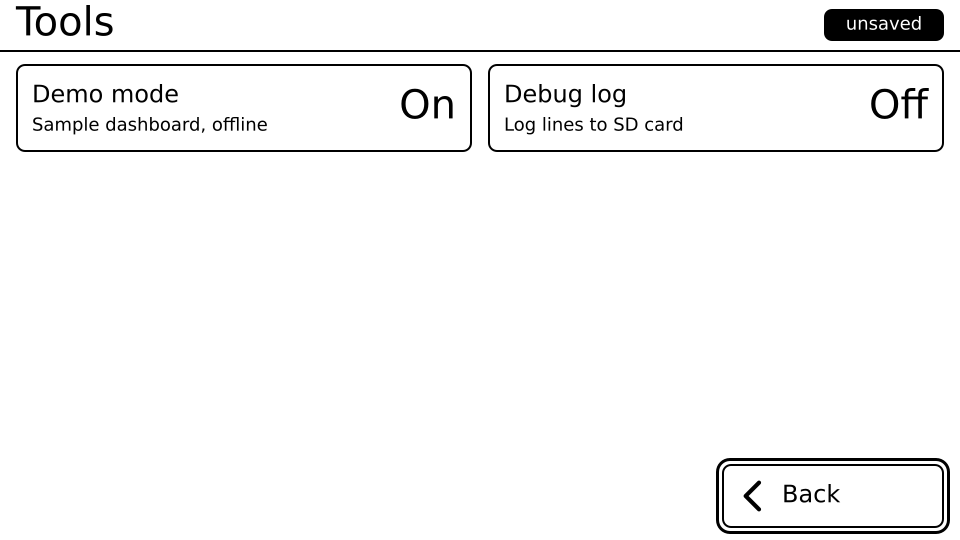
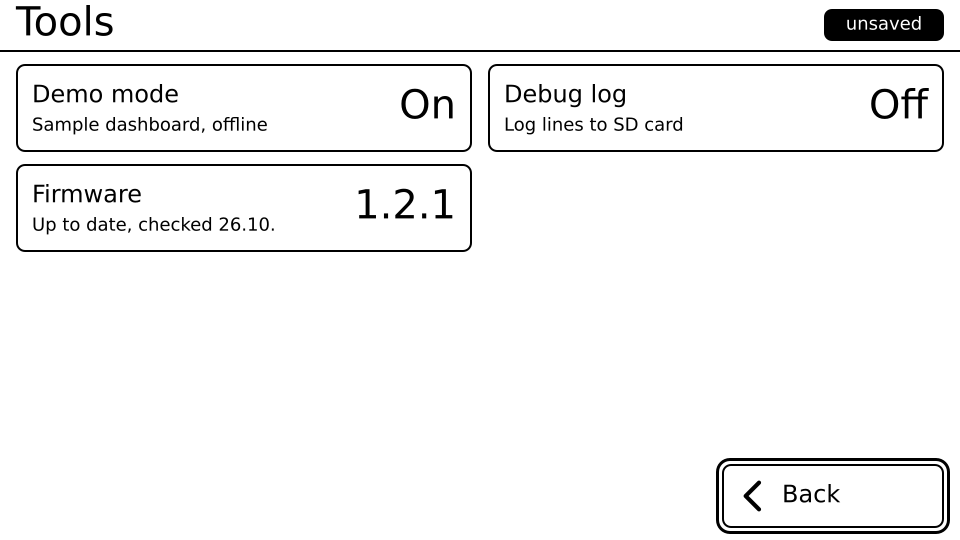
task 087: UI spec for firmware update in Settings

Changed region(s): [[0.0, 0.2963, 0.5, 0.4741]]

diff --git a/docs/ui/settings.md b/docs/ui/settings.md
@@ -4,7 +4,7 @@ System screen (not config-driven). Opened by a **long push of the rocker at TAB
 level** (layout.md 7.2) or by a **tap on the battery cluster** in the status bar
 (hit kind `settings`, layout.md section 6). Shown in the current orientation; no
 tab bar, no status bar. Values from `docs/ui/STYLE.md` (revision 3: touch targets
-64, gaps 12, every text and icon placed by its centre line `cy`). Mockups (revision 7, task 047): overview `settings-portrait.svg` / `settings-landscape.svg`; category pages `settings-display-*.svg`, `settings-sleep-*.svg`, `settings-network-*.svg`, `settings-tools-*.svg` (each `-portrait` / `-landscape`). The old `tools-*.svg` are removed. Rect = (x, y, w, h); screen
+64, gaps 12, every text and icon placed by its centre line `cy`). Mockups (revision 7, task 047): overview `settings-portrait.svg` / `settings-landscape.svg`; category pages `settings-display-*.svg`, `settings-sleep-*.svg`, `settings-network-*.svg`, `settings-tools-*.svg` (each `-portrait` / `-landscape`; plus `settings-tools-states.svg`, task 087). The old `tools-*.svg` are removed. Rect = (x, y, w, h); screen
 coordinates unless it says "row-relative".
 
 ## 1. Purpose and data sources
@@ -78,7 +78,7 @@ Settings is a two-level system: the **overview** (main page) lists four **catego
 | Display | Orientation |
 | Sleep & wake | Sleep mode, Updates while asleep, Keep awake, Idle timeout, Learn battery limits; battery use bar (8.2, revision 10, task 085) |
 | Network | Wi-Fi (`Auto` / profile names from secrets.yaml), HA connection (`Auto` / `Internal` / `External`) |
-| Tools | Demo mode, Debug log |
+| Tools | Demo mode, Debug log, Firmware (update row, 8.6; not part of the edit buffer) |
 
 Rule changes: rule 1a now reads "one edit buffer for all pages"; the `unsaved` chip (header, same place) shows on the overview and on every category page; moving between levels (category row, Back, LONG_PUSH on a category page) saves and applies nothing. Rules 2 to 7 are unchanged, with these additions: **Wi-Fi / HA connection** changes apply on leaving Settings (the network session restarts once, after the tab screen is drawn; Demo mode On starts none). The idle auto-leave (60 s) fires from any page and leaves Settings entirely, saving the buffer. **Value cycling** for Wi-Fi: `Auto` -> profile 1 -> ... -> profile N -> `Auto` (list order of secrets.yaml); HA connection `Auto` -> `Internal` -> `External` -> `Auto`.
 
@@ -97,7 +97,7 @@ Shared geometry (unchanged from revision 6): margins 16, gaps 12, header 54 (por
 | Refresh now | (16, 880, 248, 64) | 912 | 3.4 |
 | Back | (276, 880, 248, 64) | 912 | 3.4 |
 
-Category row (row-relative, 508 x 96): label F24 INK left at x = 16, cy = 34; **one-line summary** F18 INK left at x = 16, cy = 66; chevron_right icon (M, 40 x 40) at (W - 52, 28), cy = 48. Summaries (from the edit buffer, so they follow unsaved changes; fit rule F18 then `...`): Display `Portrait` / `Landscape`; Sleep & wake `<Sleep mode>, updates <X>` plus `, USB awake` / `, always awake` when Keep awake is On USB / Always, e.g. `Power off, updates 3 h`, `Deep sleep, updates off`, `Touch & rocker, updates 30 min, always awake` (X = `off` / `30 min` / `1 h` / `3 h` / `6 h` / `12 h`; fit rule: drop the word `updates `, then `...`; revision 10, the idle timeout is no longer in the summary); Network `Wi-Fi <value>, HA <value>` e.g. `Wi-Fi Auto, HA Auto` or `Wi-Fi Hotspot, HA Internal`; Tools `Demo Off, Log Off`. Vertical sums: header 56 +12 = 68; 4 x 96 + 3 x 12 = 420 -> 488; +16 = 504; info 304 -> 808; footer 880 (72 px of free space between).
+Category row (row-relative, 508 x 96): label F24 INK left at x = 16, cy = 34; **one-line summary** F18 INK left at x = 16, cy = 66; chevron_right icon (M, 40 x 40) at (W - 52, 28), cy = 48. Summaries (from the edit buffer, so they follow unsaved changes; fit rule F18 then `...`): Display `Portrait` / `Landscape`; Sleep & wake `<Sleep mode>, updates <X>` plus `, USB awake` / `, always awake` when Keep awake is On USB / Always, e.g. `Power off, updates 3 h`, `Deep sleep, updates off`, `Touch & rocker, updates 30 min, always awake` (X = `off` / `30 min` / `1 h` / `3 h` / `6 h` / `12 h`; fit rule: drop the word `updates `, then `...`; revision 10, the idle timeout is no longer in the summary); Network `Wi-Fi <value>, HA <value>` e.g. `Wi-Fi Auto, HA Auto` or `Wi-Fi Hotspot, HA Internal`; Tools `Demo Off, Log Off`, or `Update available, Demo Off, Log Off` while a newer release is known (task 087; same fit rule, then `...`). Vertical sums: header 56 +12 = 68; 4 x 96 + 3 x 12 = 420 -> 488; +16 = 504; info 304 -> 808; footer 880 (72 px of free space between).
 
 Info rows (3.3 table) change only in wording: HA row `internal, ok 14:05` / `external, ok 14:05` (the link in use; was local / remote); Wi-Fi row shows the SSID of the connected profile.
 
@@ -242,6 +242,8 @@ Effect: Wi-Fi / HA connection are applied on leaving Settings (rule 3 addition);
 ### 8.4 Tools (`settings-tools-*.svg`)
 Hint rows 88 high: Demo mode, Debug log (portrait (16, 68) and (16, 168), landscape (16, 64) and (488, 64)); Debug log note slot (portrait (16, 268, 508, 64), landscape (488, 164, 456, 64)): `Writes /debug.log (max 1 MB).` / `Uses more battery.`, or with no SD card `No SD card: nothing is logged.` / `Insert a card to log.` Hints: `Sample dashboard, offline`, `Log lines to SD card`.
 
+Task 087 adds the **Firmware row** (8.6) as the third row: portrait (16, 268, 508, 88), the Debug log note slot moves to (16, 368, 508, 64); landscape (16, 164, 456, 88) under Demo mode (note slot unchanged). Focus order: Demo mode, Debug log, Firmware (only when actionable), Back. Mockups: portrait shows update available, landscape up to date; all states in `settings-tools-states.svg`.
+
 ### 8.5 Interactions and rocker (all category pages)
 | Target | Action | Redraw |
 |--------|--------|--------|
@@ -284,3 +286,27 @@ No on-screen countdown (partial refresh while holding would ghost and cost batte
 - OPEN-S9: closed (task 085 notes): the estimate is replaced by the 1..10 Battery use bar; architect to confirm lib/power can give a level 1..10.
 - OPEN-S10: On USB falling back to Off when the mode no longer offers it (8.2 row 3) is a proposal; alternative is to keep the stored value and treat it as Off.
 - OPEN-S11: forced-Off Updates (Power off without a working RTC power-on) shows as a dotted row plus note; confirm 084 can report "RTC power-on unsupported" at settings time.
+
+
+## 8.6 Firmware update (revision 11, task 087; `settings-tools-states.svg`, ids w-1..w-N as in the sheet)
+Settings only: nothing on tab screens, no popup. Data: NVS found version / last-check time (lib ota_logic), `FW_VERSION`, battery %, USB (usb_rx), Wi-Fi state, demo flag. No HA entity.
+
+**Firmware row** (hint-row geometry 3.1, 88 high, not edited, never touches the edit buffer or the `unsaved` chip). Label `Firmware` F24 (x 16, cy 32; OFF grey when refused); value = installed version F40 INK right edge W - 16 cy 44 (F24 if a long version would meet the hint); hint F18 INK x 16 cy 62 (x 48 after an alert icon S 24 at (16, 50)); hint at most about 30 characters. Chip `NEW` row-relative (144, 16, 72, 32), F18 PAPER on INK, radius 8, shown whenever a newer release is known. Row looks (shape carries the state):
+| State | Border | Hint | Tap / focus |
+|-------|--------|------|-------------|
+| Up to date / never checked | none, 1 px OFF top hairline (info look) | `Up to date, checked 26.10.` (same day `14:05`) / `Not checked yet` | ignored, no focus stop |
+| Update available | 2 px INK solid, chip | `Update to 1.3.0 available` | opens confirm |
+| Refused | 2 px dotted OFF (STYLE 8 unavailable), chip, label OFF | first reason that applies: `1.3.0: leave demo mode first`, `1.3.0: Wi-Fi not connected`, `1.3.0 needs USB or 50% battery` | ignored, no focus stop (the hint is the explanation) |
+| Failed | as Update available + alert icon | `Download failed, try again` / `File damaged, not installed` (SHA-256); old firmware untouched | opens confirm (retry) |
+| Updated (first Settings visit after the reboot only; cleared when Settings is left) | info look | `Updated from 1.2.1` (value = new version) | ignored |
+| Rolled back (after 3 unhealthy boots) | info look + alert icon | `1.3.0 failed, rolled back` | ignored; that version is not offered again (OPEN-S12) |
+Overview: Tools row summary gains `Update available, ` first (3.0); no other overview change (the Firmware info row keeps `v1.2.1`).
+
+**Confirm step** (full page, replaces the Tools page; header `Update`, `unsaved` chip only if dirty; STYLE 10b). Portrait (origin 0,0): `Install 1.3.0?` F40 (16, cy 100); info rows (3.3 pattern, 48 high, hairline OFF, label F18 DIM x 16, value F24 INK x 174) at y 144 / 192 / 240: `Installed 1.2.1`, `New 1.3.0`, `Download 1.6 MB` (size from the manifest); lines F18 INK at x 16, cy 330 / 354 / 378: `Takes about a minute, then the` / `device restarts. Your settings and` / `config are kept.`; alert note 3.2 at (16, 410, 508, 64): `Keep it on USB or charged.` / `Do not switch it off.`; buttons 508 x 64, border 2 INK, label F24 x 16, key hint F18 right x W - 16, cy 32: `Yes, install` `UP` at (16, 696), `No, cancel` `DOWN` (16, 772), `Skip` `PUSH` (16, 848). Landscape: title cy 90, info rows (16, 124 / 168 / 212, 456, 44), lines cy 282 / 306 / 330, note (16, 364, 456, 64), buttons 456 x 64 at x 488, y 200 / 276 / 352. Touch: the three buttons; rocker: UP yes, DOWN no, PUSH or LONG_PUSH skip (no focus ring). No / Skip = back to the Tools page. Entering and leaving = GC16 full. Yes: if the buffer is dirty it is saved first (the reboot must not lose it), then the Tools page is drawn (GC16 full) with the firmware row in progress look, and the download starts.
+
+**Progress** (the Tools page, nothing else changes; row only). Row border 3 px dashed INK (pending look, STYLE 9). Label F24 cy 32 `Downloading 1.3.0`; value F40 INK right edge, cy 36, `42%`; bar row-relative (16, 56, 476, 16): 2 px INK outline on PAPER, fill INK from x 18, 12 high, width = 472 x percent (shape, no grey). Phases: `Downloading 1.3.0` + percent; `Checking 1.3.0` + `100%` (SHA-256); `Restarting` (no value, bar full) -> reboot. Other rows keep their look but ignore touch and rocker (no Back, no cancel); idle/wake sleep is suspended. Redraw: value + bar region row-relative (16, 14, 476, 58), INK only, `epd_fastest`, one partial per 5 % step (or at most every 2 s); label changes = one partial of the label. No other region is touched.
+Failure: row returns to its Failed look (one partial), then one GC16 clean-up of the page; the running firmware is untouched and input is active again. Success: after `Restarting` the device reboots into the new firmware (normal cold-boot splash path, then the tab screen); the next Settings visit shows `Updated from ...` once.
+
+**States.** Loading: none (row shows the stored result of the weekly check; a check never runs while Settings is open). HA offline: not relevant; Wi-Fi down: Refused look. Demo mode On: Refused (`leave demo mode first`). Unavailable entity: n/a.
+
+**OPEN-S12:** after a rollback the failed version should be suppressed (architect). OPEN-S13: no `Check now` row (weekly check only, per task); add one if the user wants it.

diff --git a/docs/tasks/087-self-update.md b/docs/tasks/087-self-update.md
@@ -49,3 +49,4 @@ Architecture (architect, 2026-11-02):
 - [ ] `pio run` and `pio test -e native` pass; release workflow builds the new manifest (dry run).
 
 ## Notes
+- Architect 2026-11-02 (OPEN-S12): a version that rolled back is suppressed; offer again only for a newer version.
